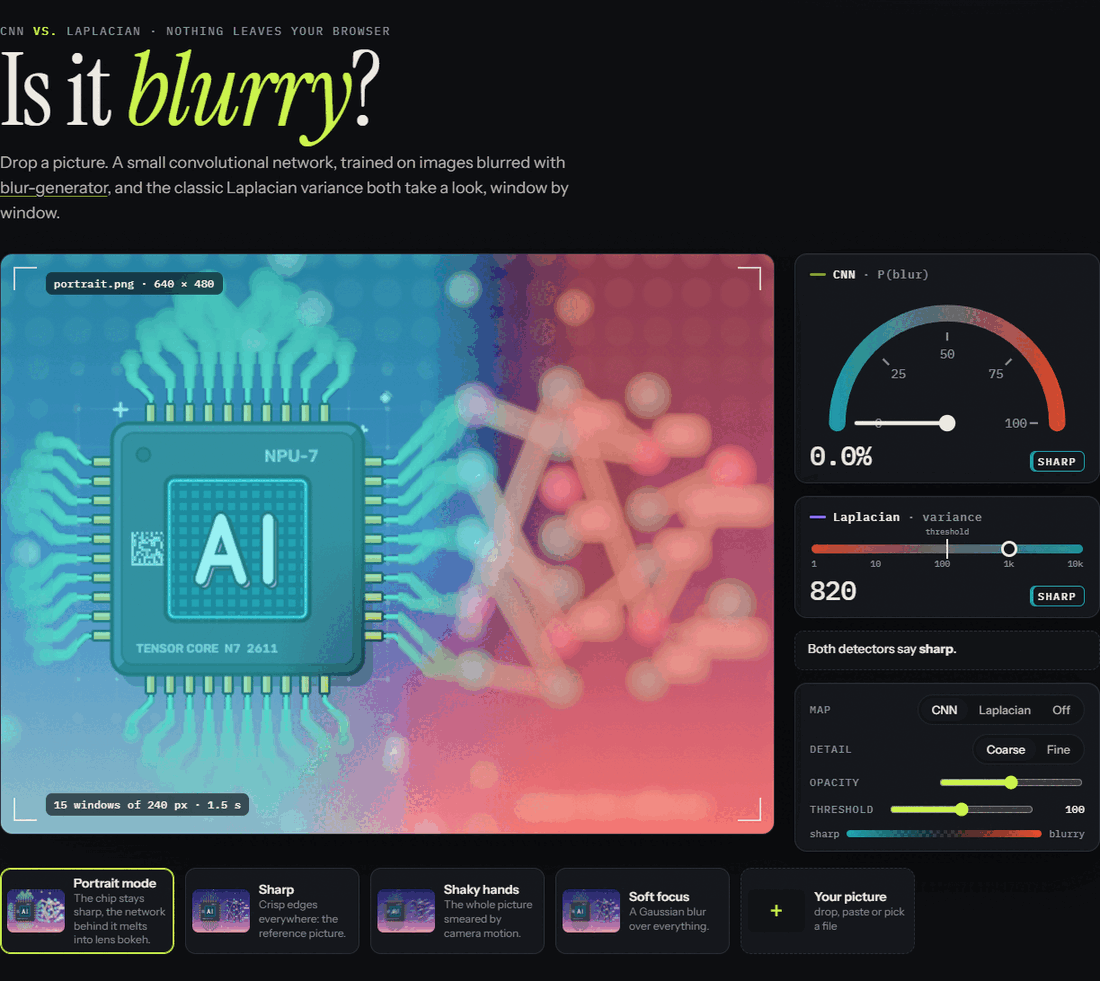
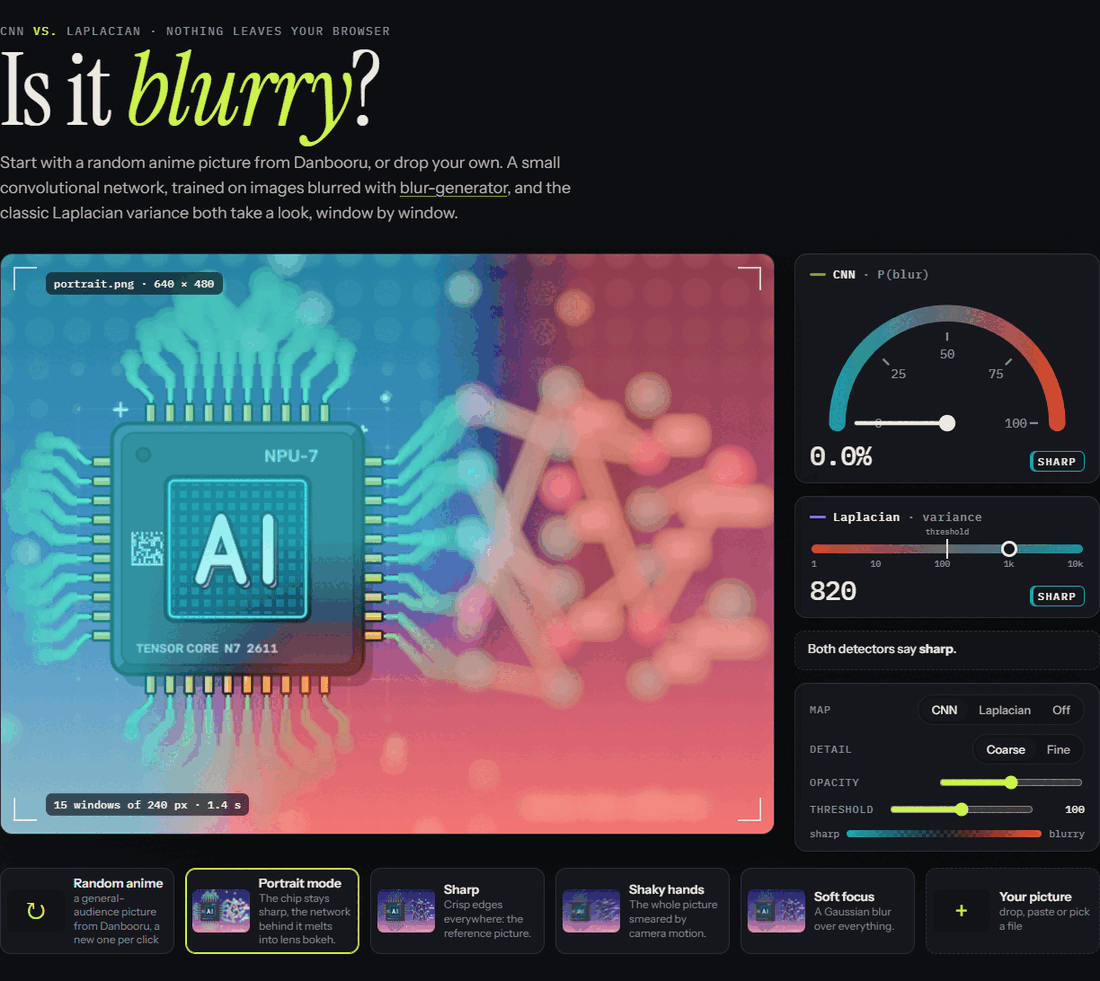
docs: describe the Danbooru pictures and retake the demo screenshots
The README explains where the default picture comes from, what the page
does to stay polite and general-audience only, and how the model copes
with anime art (fine on whole pictures, shaky heat maps on soft shading).
The screenshots show the new "Random anime" card; they are taken with a
built-in sample, so the committed images stay original art.

diff --git a/README.md b/README.md
@@ -158,13 +158,31 @@ project.
 ## The web demo
 
 The demo runs the same network with [ONNX Runtime Web](https://onnxruntime.ai/docs/tutorials/web/), so
-pictures never leave the browser. It shows:
+your pictures never leave the browser. It opens with a random anime picture from
+[Danbooru](https://danbooru.donmai.us) and shows:
 
 - the CNN's P(blur) for the whole picture, and the Laplacian variance (a blur score that needs no
   training: low variance means few sharp edges) with an adjustable threshold;
 - a heat map from either detector over square windows half as wide as the picture's shorter side
   (the smallest crop the network saw in training);
 - a stress test that blurs the picture step by step and plots how both scores react.
+
+About the Danbooru pictures:
+
+- **General audience only.** The page asks for one random `rating:g` post
+  (`/posts/random.json?tags=rating:g`) and checks the answer's rating again before loading anything.
+  Videos and animations are skipped, at most 3 posts in a row.
+- **Loaded at run time, always credited.** Your browser loads the picture straight from Danbooru's image
+  server. The credit under it names the artist and links to the Danbooru post and the original
+  source. Nothing from Danbooru is stored in this repository or on the site.
+- **Polite.** It makes one request per picture, and the current picture stays for the browser session,
+  so reloading asks for nothing new. **Random anime** fetches another.
+- **Built-in samples as the fallback.** When Danbooru cannot be reached, the page says so and shows the
+  built-in samples instead. Those samples are also what the tests use.
+- **Not the model's home ground.** The model learned from the cartoon scenes in `data/`, not from anime
+  art. In a check on 6 random `rating:g` pictures, it called 5 of them sharp and all 6 blurry once they
+  were blurred. Its heat map was less reliable: on 3 of the 6 sharp pictures, it called most windows
+  blurry, because soft shading looks a lot like blur.
 
 GitHub Actions builds it ([`pages.yml`](.github/workflows/pages.yml)): it trains the network on `data/`
 (20 epochs, 2 crops per picture, seed 1), refuses to publish a model below 90% test accuracy, exports it,
